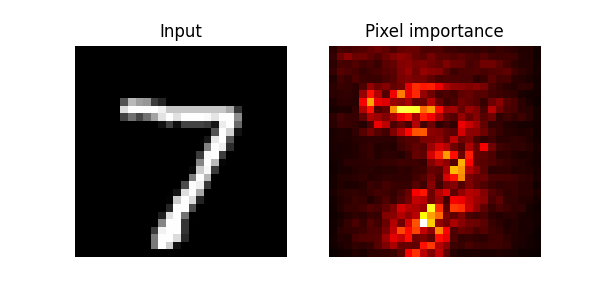
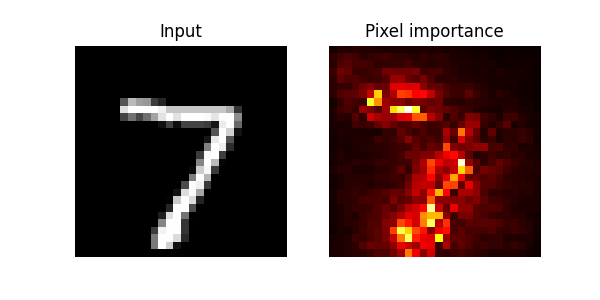
remove saliency code, start defining functions, moved if name main down

Changed region(s): [[0.54, 0.15, 0.9, 0.87], [0.57, 0.72, 0.6, 0.78], [0.54, 0.24, 0.57, 0.27]]

diff --git a/testmnist-cnn.py b/testmnist-cnn.py
@@ -3,7 +3,6 @@ import torch.nn as nn
 import torch.nn.functional as F
 from torchvision import datasets, transforms
 from torch.utils.data import DataLoader
-import matplotlib.pyplot as plt
 
 # Define device globally
 if torch.xpu.is_available():
@@ -67,12 +66,12 @@ def smooth_grad(image, model, device, n_samples=20, noise_level=0.1):
 
     return torch.stack(grads).mean(dim=0)
 
-if __name__ == '__main__':
-    #   epochs = int(input("epochs amount: "))
-    epochs = 5
-        
-    transform = transforms.ToTensor()
+#   epochs = int(input("epochs amount: "))
+epochs = 5
 
+transform = transforms.ToTensor()
+
+def load_mnist_data():
     print("Downloading MNIST training data...")
     train_data = datasets.MNIST(
         root='./data',
@@ -93,7 +92,7 @@ if __name__ == '__main__':
         dataset=train_data,
         batch_size=64,
         shuffle=True,
-        num_workers=4,
+        num_workers=0,
         pin_memory=device.type in ('cuda', 'xpu')
     )
 
@@ -101,81 +100,62 @@ if __name__ == '__main__':
         dataset=test_data,
         batch_size=64,
         shuffle=False,
-        num_workers=4,
+        num_workers=0,
         pin_memory=device.type in ('cuda', 'xpu')
     )
+    return train_data_loader, test_data_loader
 
-    model = CNN()
-    model = model.to(device)
+model = CNN()
+model = model.to(device)
 
-    print(f"Using device: {device}")
+print(f"Using device: {device}")
 
-    loss_fn = nn.CrossEntropyLoss()
-    optimizer = torch.optim.Adam(model.parameters(), lr=0.001)
+loss_fn = nn.CrossEntropyLoss()
+optimizer = torch.optim.Adam(model.parameters(), lr=0.001)
 
-    # Training loop
-    losses = []
+# Training loop
+losses = []
 
-    for epoch in range(epochs):
-        model.train()
-        epoch_loss = 0
+for epoch in range(epochs):
+    model.train()
+    epoch_loss = 0
 
-        for images, labels in train_data_loader:
-            images = images.to(device)
-            labels = labels.to(device)
+    for images, labels in train_data_loader:
+        images = images.to(device)
+        labels = labels.to(device)
 
-            outputs = model(images)
-            loss = loss_fn(outputs, labels)
+        outputs = model(images)
+        loss = loss_fn(outputs, labels)
 
-            optimizer.zero_grad()
-            loss.backward()
-            optimizer.step()
+        optimizer.zero_grad()
+        loss.backward()
+        optimizer.step()
 
-            epoch_loss += loss.item()
+        epoch_loss += loss.item()
 
-        avg_loss = epoch_loss / len(train_data_loader)
-        losses.append(avg_loss)
-        print(f"Epoch {epoch+1}/{epochs} completed - Loss: {avg_loss:.4f}")
+    avg_loss = epoch_loss / len(train_data_loader)
+    losses.append(avg_loss)
+    print(f"Epoch {epoch+1}/{epochs} completed - Loss: {avg_loss:.4f}")
 
-    # See test accuracy
-    correct = 0
-    total = 0
+# See test accuracy
+correct = 0
+total = 0
 
-    model.eval()
+model.eval()
 
-    with torch.no_grad():
-        for images, labels in test_data_loader:
-            images = images.to(device)
-            labels = labels.to(device)
-            outputs = model(images)
-            predictions = outputs.argmax(dim=1)
-            correct += (predictions == labels).sum().item()
-            total += labels.size(0)
+with torch.no_grad():
+    for images, labels in test_data_loader:
+        images = images.to(device)
+        labels = labels.to(device)
+        outputs = model(images)
+        predictions = outputs.argmax(dim=1)
+        correct += (predictions == labels).sum().item()
+        total += labels.size(0)
 
-    accuracy = correct / total
-    print(f"Test Accuracy: {accuracy * 100:.2f}%")
+accuracy = correct / total
+print(f"Test Accuracy: {accuracy * 100:.2f}%")
 
-    # Get a test image for saliency visualization
-    images, labels = next(iter(test_data_loader))
-    image = images[0].unsqueeze(0)
-    label = labels[0]
-    model.eval()
-
-    saliency = smooth_grad(image, model, device)
-    saliency = saliency.view(28, 28).detach().cpu()
-    image = image.cpu()
-
-    plt.figure(figsize=(6,3))
-
-    plt.subplot(1,2,1)
-    plt.imshow(image.detach().view(1, 28, 28)[0], cmap="gray")
-    plt.title("Input")
-    plt.axis("off")
-
-    plt.subplot(1,2,2)
-    plt.imshow(saliency, cmap="hot")
-    plt.title("Pixel importance")
-    plt.axis("off")
-
-    plt.savefig(f"outputsmatplotlib/{epochs}epochs.png")
-    plt.show()
+torch.save(model.state_dict(), "mnist_cnn.pth")
+print("Model saved as mnist_cnn.pth")
+    
+if __name__ == '__main__':
